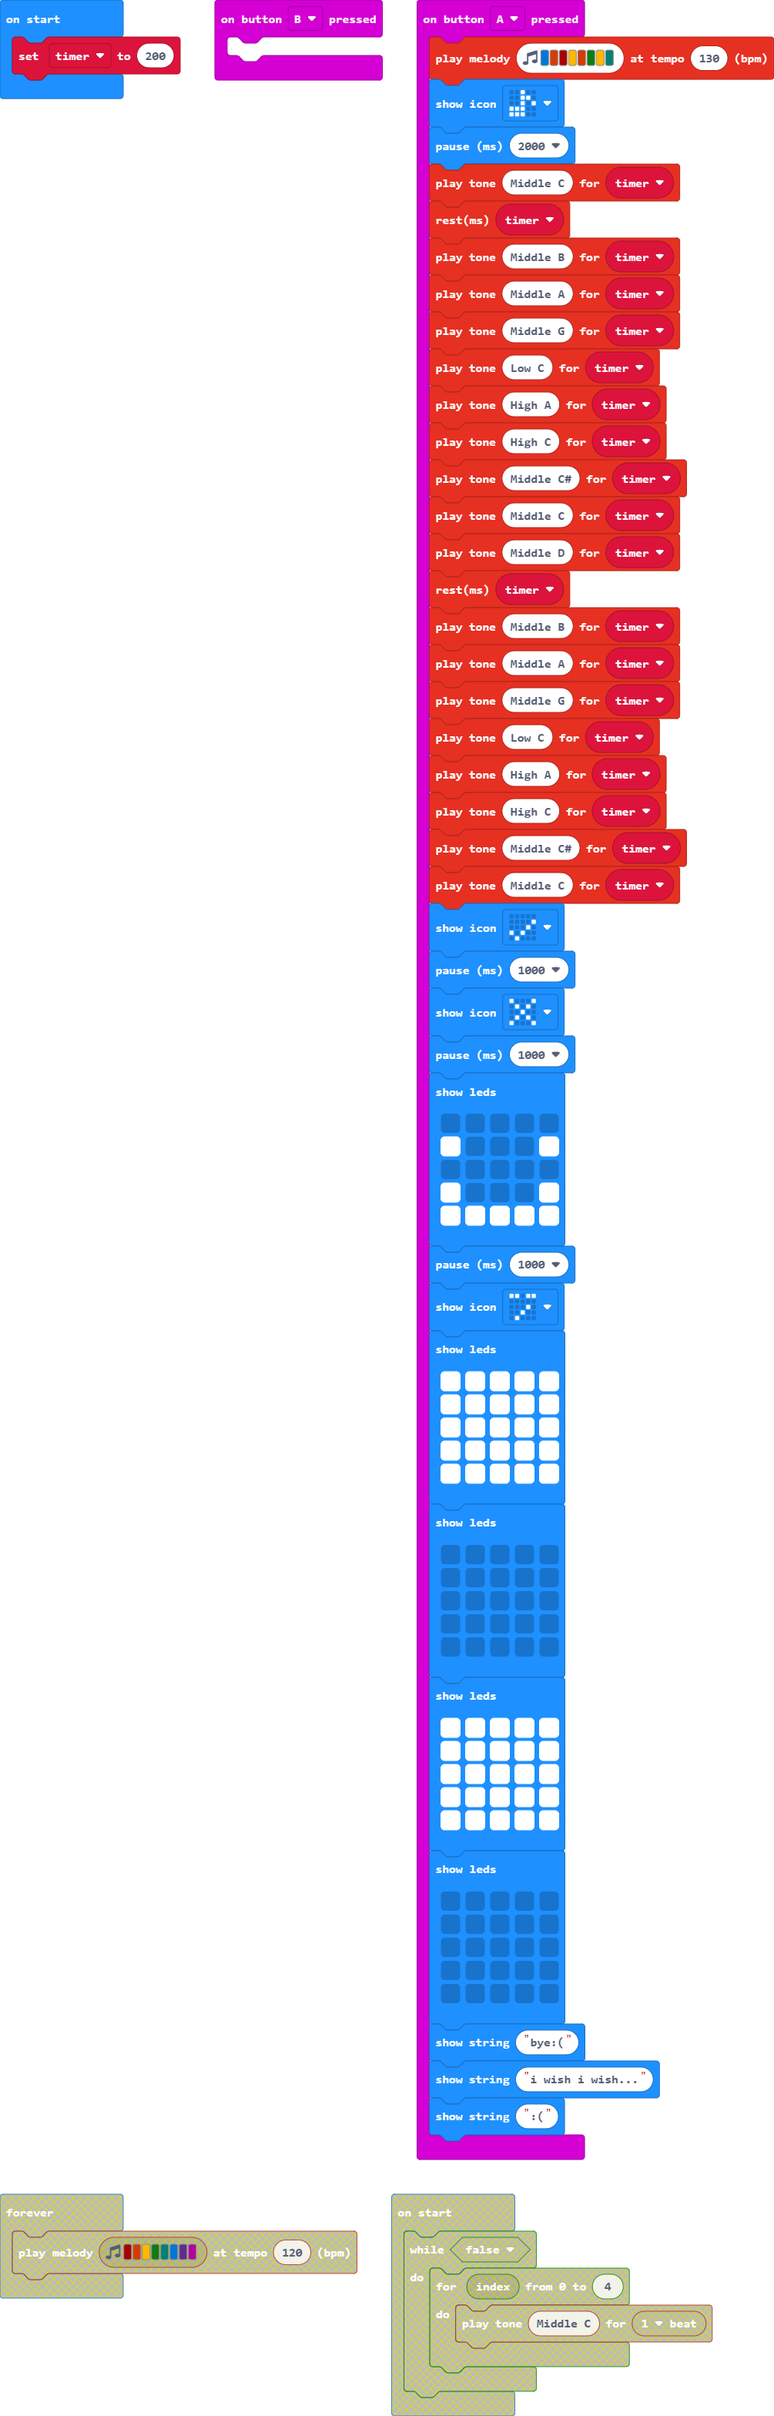
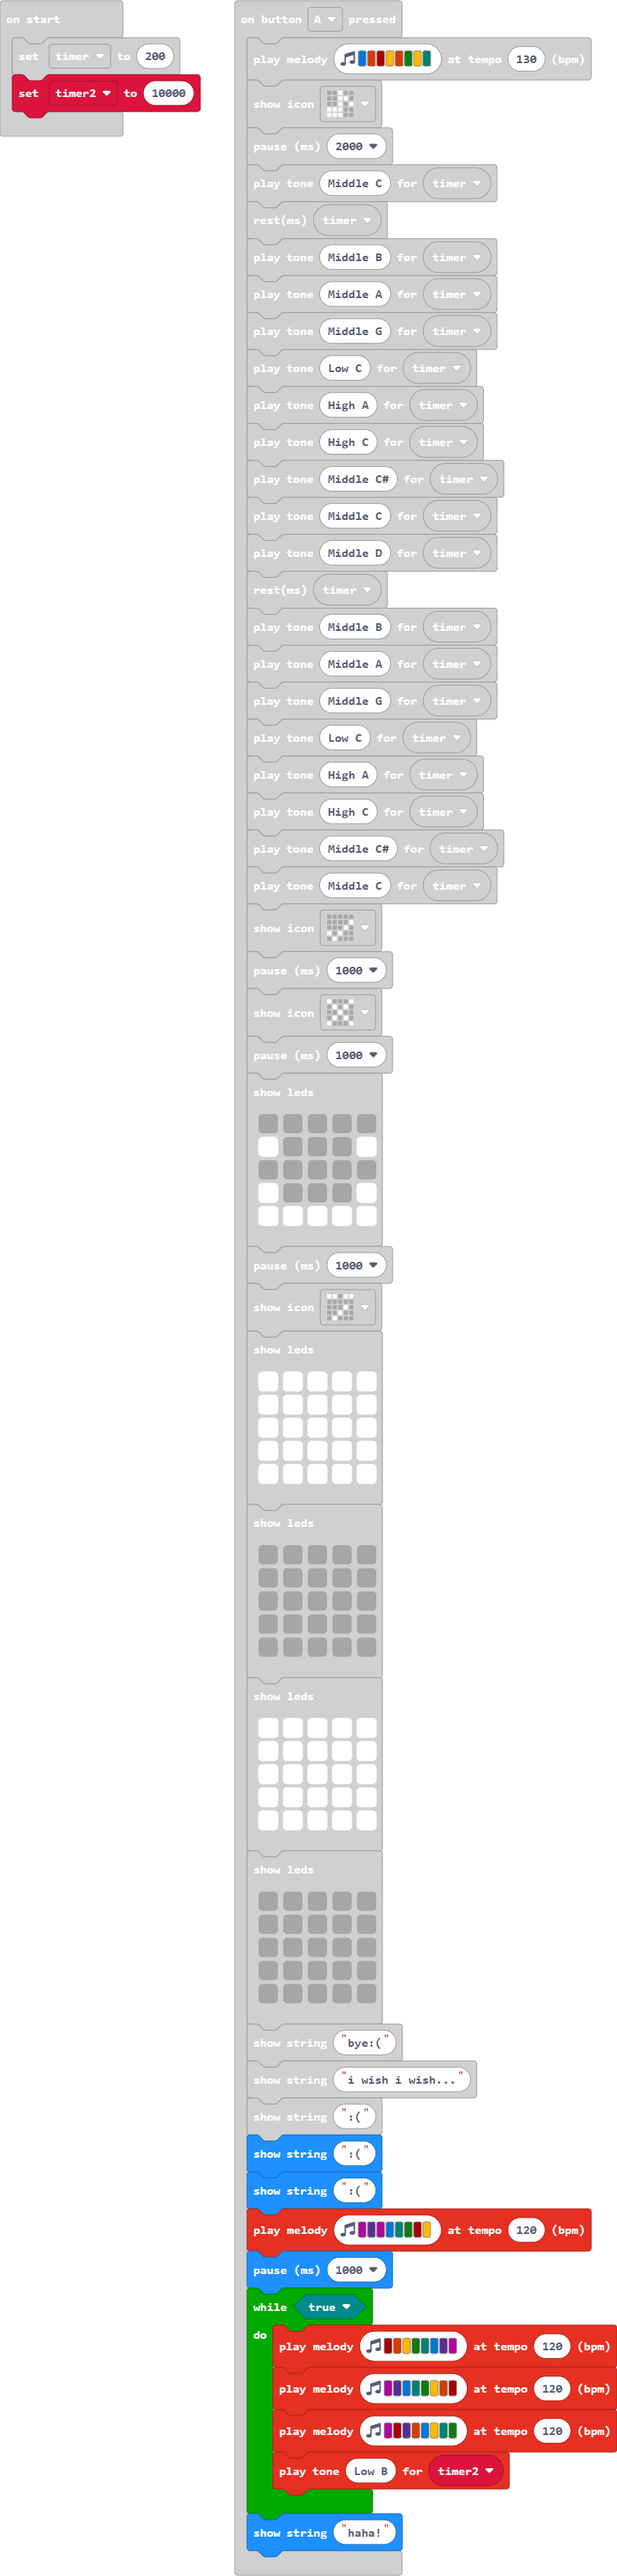
Update main.blocks, main.ts

diff --git a/main.ts b/main.ts
@@ -66,9 +66,22 @@ input.onButtonPressed(Button.A, function () {
     basic.showString("bye:(")
     basic.showString("i wish i wish...")
     basic.showString(":(")
+    basic.showString(":(")
+    basic.showString(":(")
+    music.playMelody("C D C E F G C5 A ", 120)
+    basic.pause(1000)
+    while (true) {
+        music.playMelody("C5 B A G F E D C ", 120)
+        music.playMelody("C D E F G A B C5 ", 120)
+        music.playMelody("C C5 D B E A F G ", 120)
+        music.playTone(247, timer2)
+    }
+    basic.showString("haha!")
 })
 input.onButtonPressed(Button.B, function () {
 	
 })
+let timer2 = 0
 let timer = 0
 timer = 200
+timer2 = 10000
